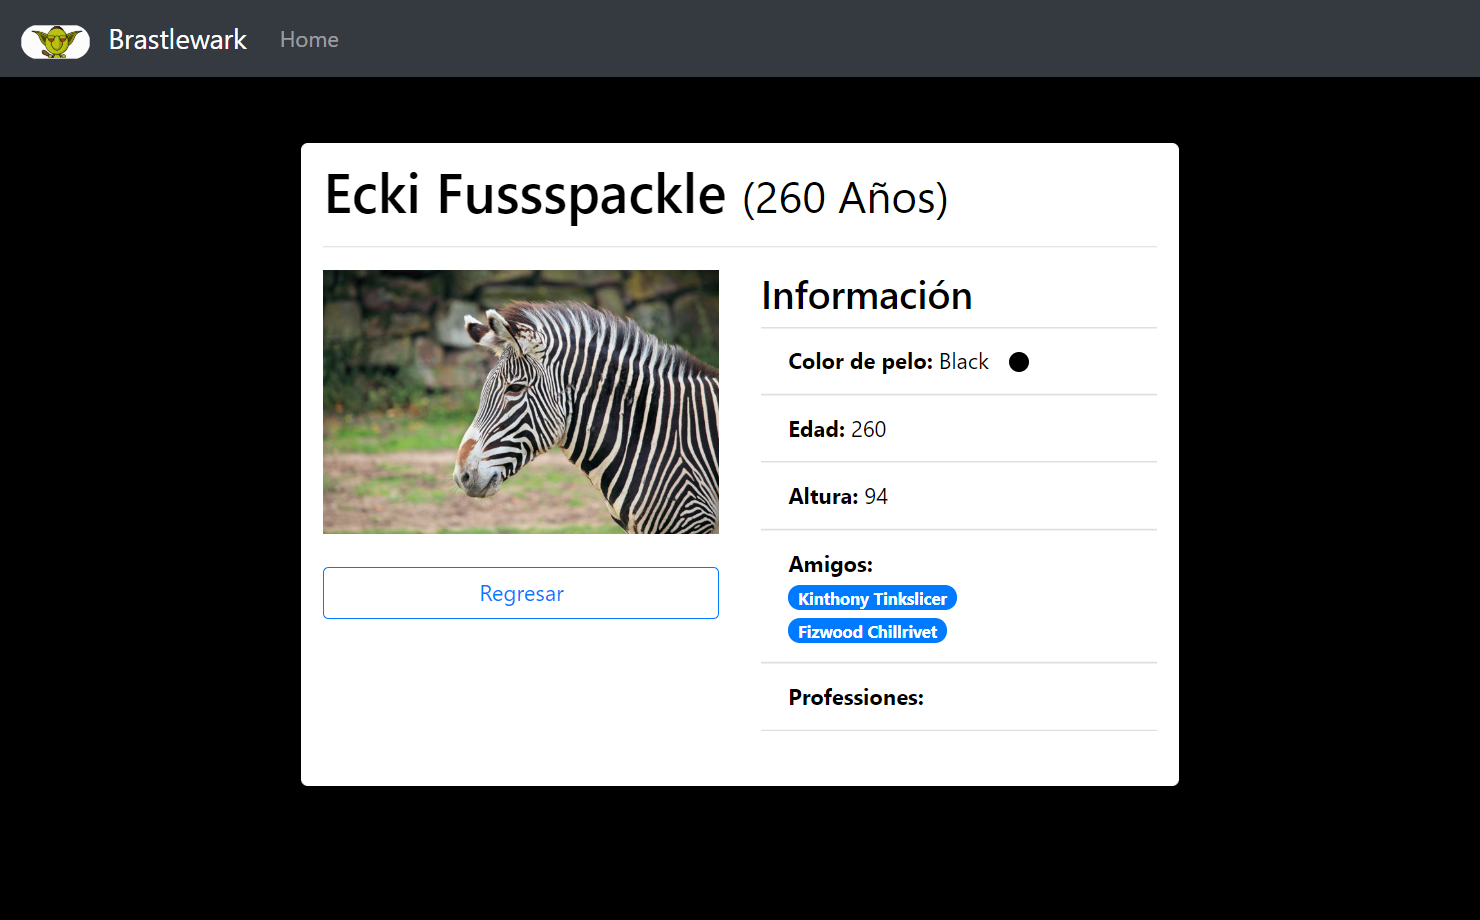
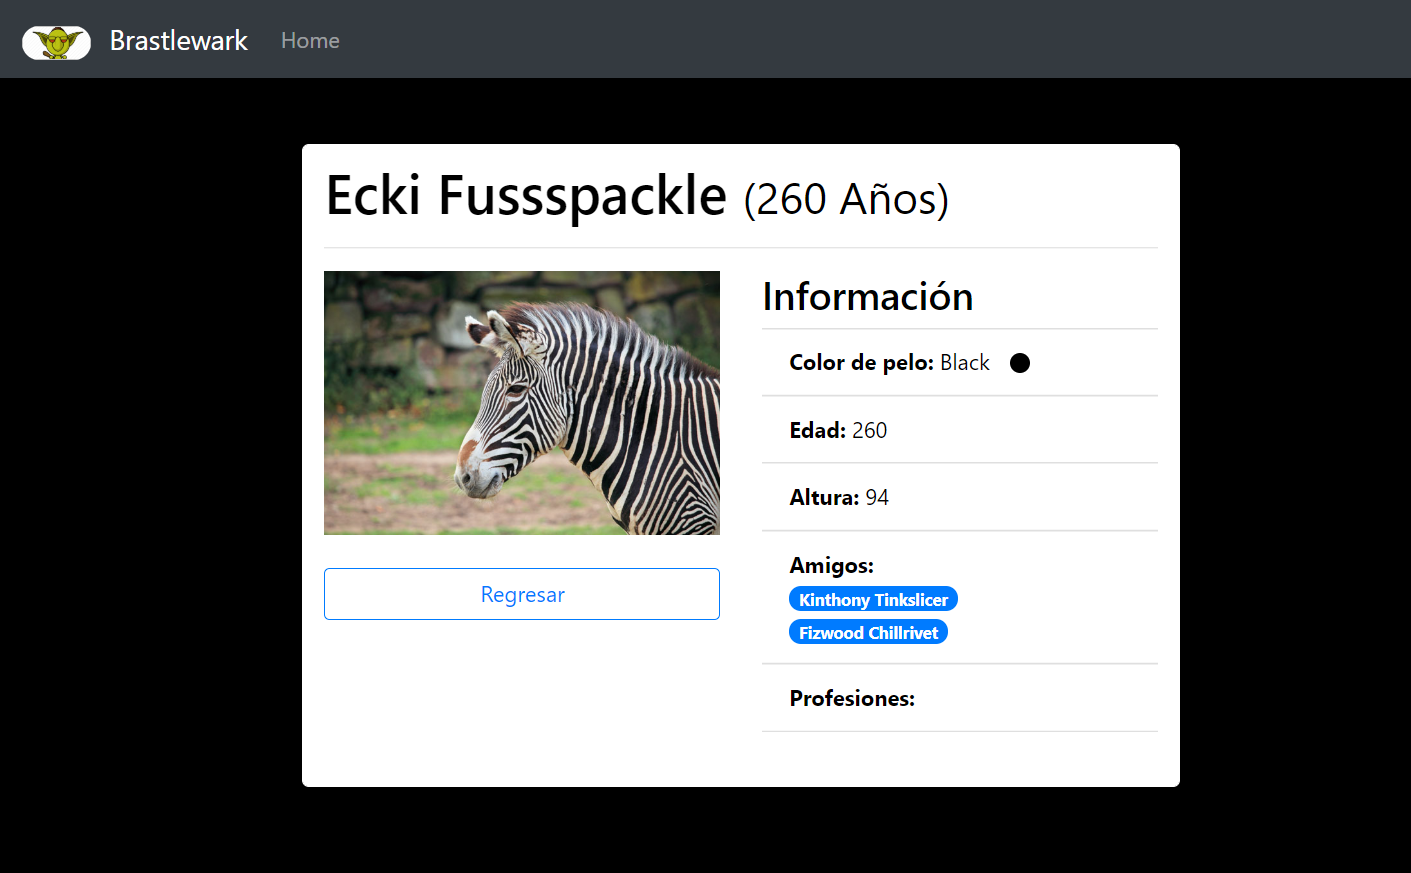
cambios menores

Changed region(s): [[0.1871, 0.1546, 0.842, 0.9278], [0.0, 0.0, 1.0, 0.0928]]

diff --git a/Brastlewark/src/app/components/gnome/gnome.component.html b/Brastlewark/src/app/components/gnome/gnome.component.html
@@ -23,7 +23,7 @@
           <li class="list-group-item"><strong>Amigos:</strong><br>
             <span *ngFor="let friend of gnome.friends"  class="badge badge-custom badge-pill badge-primary">{{ friend }}</span>
           </li>
-          <li class="list-group-item"><strong>Professiones:</strong><br>
+          <li class="list-group-item"><strong>Profesiones:</strong><br>
             <span *ngFor="let profession of gnome.professions"  class="badge badge-custom badge-pill badge-success">{{ profession }}</span>
           </li>
         </ul>

diff --git a/Brastlewark/src/app/components/cards/cards.component.html b/Brastlewark/src/app/components/cards/cards.component.html
@@ -4,7 +4,7 @@
     <img  *ngIf="item.thumbnail"  class="card-img-top pruebasimg" [src]="item.thumbnail" [alt]="item.name">
     <div class="card-body">
       <h5 class="card-title">{{ item.name }}</h5>
-      <p class="card-text">Friends:<br>
+      <p class="card-text">Amigos:<br>
           <span *ngFor="let friend of item.friends"  class="badge badge-custom badge-pill badge-primary">{{ friend }}</span>
       </p>
     </div>
